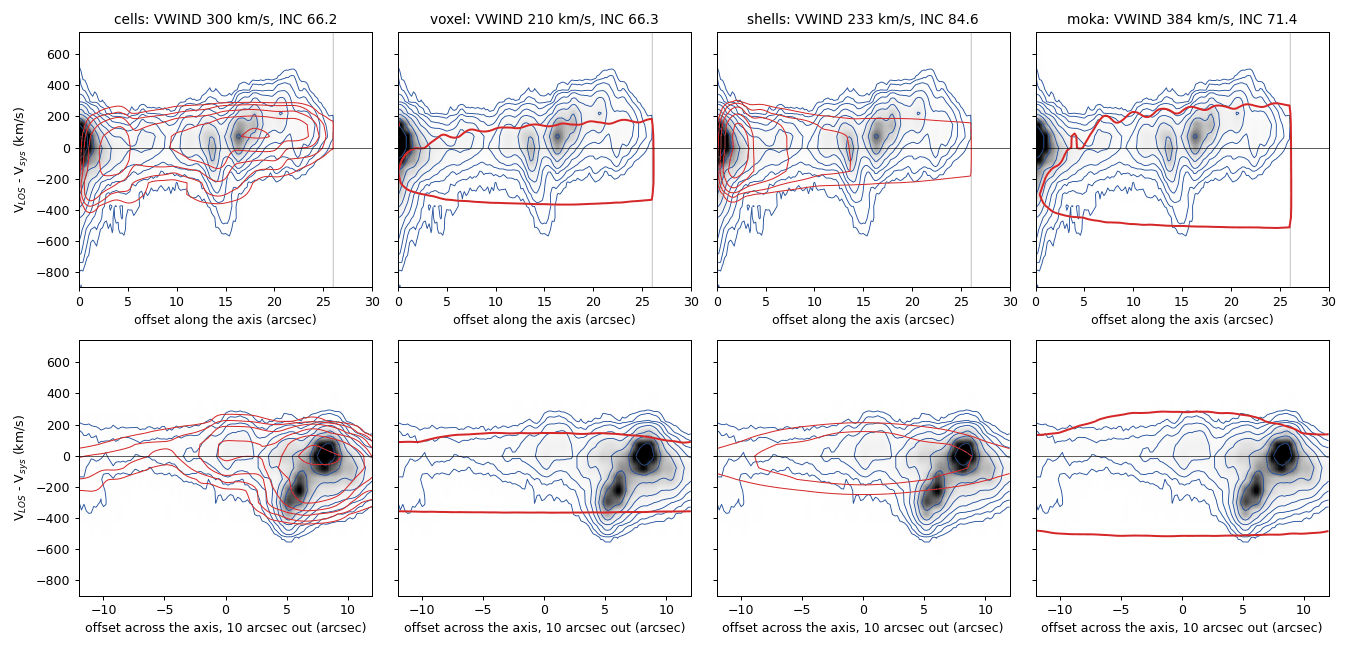
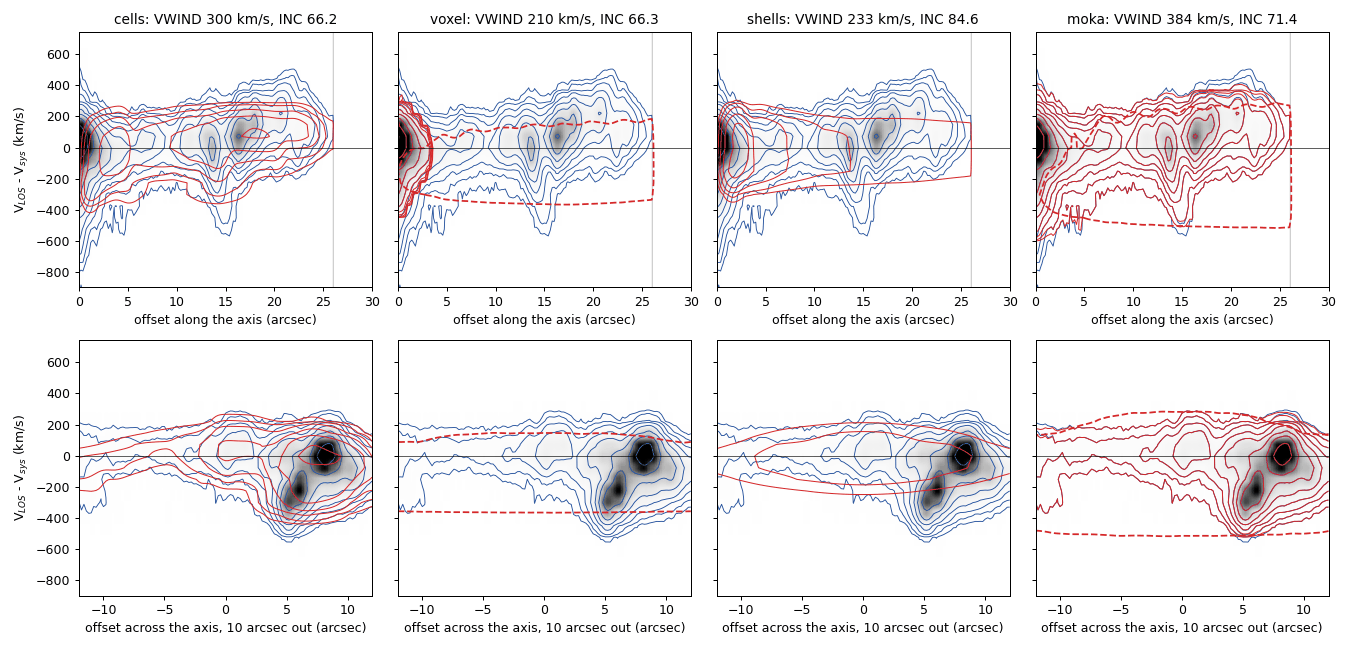
Circinus example: data from the ESO archive, model contours, the highest velocities
The data are a cube of the public ESO archive (Mingozzi et al. 2019 and Marconcini et al. 2023
cited, not as the source). The comparison figure draws the model cubes of voxel and moka too,
with the outline of their cone dashed. A section on the high-velocity wings that one cone misses,
with the spectra in rings and the fits with VWIND fixed at 550 km/s and with VDISP free. The
maps and PV diagrams of the fit with VWIND_FUNC, and the maps with the new velocity scale.

Changed region(s): [[0.7467, 0.1235, 0.9644, 0.3704], [0.7778, 0.6173, 0.9956, 0.8333], [0.28, 0.1543, 0.3422, 0.3395]]

diff --git a/docs/scripts/make_example_figures.py b/docs/scripts/make_example_figures.py
@@ -57,15 +57,23 @@ EX = {
     "circinus_vsys": ("circinus_WINDFIT_GLOBAL.par", "output/circinus_vsys", "circinus", [],
                       ["OUTFOLDER=output/circinus_vsys/", "FLAGERRORS=false", "FREE=VWIND_SINGLE INC VSYS",
                        "PRIORS=INC=(uniform,30,60) VWIND=(uniform,0,1600) VSYS=(uniform,-300,600)"]),
+    "circinus_v550": ("circinus_WINDFIT_GLOBAL.par", "output/circinus_v550", "circinus", [],
+                      ["OUTFOLDER=output/circinus_v550/", "FLAGERRORS=false", "VWIND=550", "FREE=INC",
+                       "PRIORS=INC=(uniform,30,60)"]),
+    "circinus_vdisp": ("circinus_WINDFIT_GLOBAL.par", "output/circinus_vdisp", "circinus", [],
+                       ["OUTFOLDER=output/circinus_vdisp/", "FLAGERRORS=false", "FREE=VWIND_SINGLE INC VDISP_SINGLE",
+                        "PRIORS=INC=(uniform,30,60) VWIND=(uniform,0,1600) VDISP=(uniform,0,300)"]),
     "circinus_func": ("circinus_WINDFIT_GLOBAL.par", "output/circinus_func", "circinus",
-                      [("_wind_shells.pdf", "shells", 1000)],
+                      [("_wind_shells.pdf", "shells", 1000), ("_maps_wind.pdf", "maps", 650),
+                       ("_pv_wind.pdf", "pv", 800)],
                       ["OUTFOLDER=output/circinus_func/", "FLAGERRORS=false", "FREE=VWIND_FUNC INC",
                        "PRIORS=INC=(uniform,30,60) VWIND_P1=(uniform,0,1600) VWIND_P2=(uniform,1,50)"]),
 }
 # figures made from the outputs of several examples: name -> (function, the examples it needs)
 COMPOSITE = {"circinus_compare": ("circinus_compare", ["circinus", "circinus_voxel", "circinus_shells",
                                                        "circinus_moka"]),
-             "circinus_mask": ("circinus_mask", [])}
+             "circinus_mask": ("circinus_mask", []),
+             "circinus_spectra": ("circinus_spectra", ["circinus", "circinus_v550", "circinus_vdisp"])}
 
 
 def run(name, work, threads):
@@ -158,13 +166,65 @@ def circinus_mask(work):
     print(f"    {os.path.relpath(dest, REPO)}")
 
 
+def circinus_spectra(work):
+    """The integrated spectra of Circinus in rings around the nucleus (in the mask, log scale): the data and the
+    models of the fit with one VWIND, with VWIND fixed at 550 km/s and with VDISP free."""
+    import numpy as np
+    import matplotlib
+    matplotlib.use("Agg")
+    import matplotlib.pyplot as plt
+    from astropy.io import fits
+    from astropy.wcs import WCS
+    hdu = fits.open(os.path.join(EXAMPLES, "circinus_OIII.fits"))[0]
+    h = hdu.header
+    mask = fits.getdata(os.path.join(EXAMPLES, "circinus_OIII_mask.fits")).astype(bool)
+    lam = h["CRVAL3"] + (np.arange(hdu.data.shape[0]) + 1 - h["CRPIX3"]) * h["CD3_3"]
+    vel = (lam / (5006.843 * 1.001448) - 1) * 299792.458
+    chan = mask.any(axis=(1, 2))
+    x0, y0 = WCS(h).celestial.world_to_pixel_values(213.291251, -65.338826)
+    ny, nx = hdu.data.shape[1:]
+    yy, xx = np.mgrid[0:ny, 0:nx]
+    rad = np.hypot(xx - x0, yy - y0) * abs(h["CD2_2"]) * 3600.
+    cubes = [(np.where(mask, np.nan_to_num(hdu.data.astype(np.float64)), 0.), "data", "k", 1.8)]
+    for name, col in (("circinus", "#d62728"), ("circinus_v550", "#2ca02c"), ("circinus_vdisp", "#9467bd")):
+        folder, prefix = EX[name][1], EX[name][2]
+        modf = os.path.join(work, folder, prefix + "_mod_wind.fits")
+        if not os.path.exists(modf):
+            print(f"  circinus_spectra: no {modf}")
+            return
+        par = _wind_params(os.path.join(work, folder, prefix + "_wind_params.txt"))
+        lab = (f"VWIND {par.get('vwind', 550.):.0f}" + (f", VDISP {par['vdisp']:.0f}" if "vdisp" in par else "")
+               + f", INC {par['inc']:.0f}")
+        cubes.append((np.where(mask, np.nan_to_num(fits.getdata(modf).astype(np.float64)), 0.), lab, col, 1.1))
+    fig, axs = plt.subplots(1, 4, figsize=(16, 4.2), sharex=True)
+    for ax, (r0, r1) in zip(axs, ((0, 3), (6, 10), (15, 20), (20, 26))):
+        sel = (rad >= r0) & (rad < r1)
+        for cube, lab, col, lw in cubes:
+            sp = cube[:, sel].sum(axis=1)
+            ax.step(vel[chan], np.clip(sp[chan], 1e-30, None), where="mid", color=col, lw=lw, label=lab)
+        peak = cubes[0][0][:, sel].sum(axis=1).max()
+        ax.set_yscale("log")
+        ax.set_ylim(3e-3 * peak, 2 * peak)
+        ax.axvline(0, color="0.6", lw=0.5)
+        ax.set_title(f"{r0}-{r1} arcsec from the nucleus", fontsize=11)
+        ax.set_xlabel("V$_{LOS}$ - V$_{sys}$ (km/s)")
+    axs[0].set_ylabel("flux in the mask")
+    axs[1].legend(fontsize=8, loc="upper left")
+    fig.tight_layout()
+    dest = os.path.join(OUT, "circinus_spectra.png")
+    fig.savefig(dest, dpi=80)
+    plt.close(fig)
+    _quantize(dest)
+    print(f"    {os.path.relpath(dest, REPO)}")
+
+
 def circinus_compare(work):
     """The fits of Circinus with the four descriptions of the emission (cells, voxel, shells, moka): position-velocity
     slices of the data in the mask (grey, blue contours) and of the models (red) along the axis of the cone and
-    across it at 10 arcsec from the nucleus, 1 beam wide. The models of cells and shells are fluxes (red contours at
-    the levels of the data); those of voxel and moka are not (a cone with the emission of the prior; the data where
-    the clouds are), and the cone is drawn instead: the outline of a uniform cone with the same geometry and wind
-    (GALWIND), at 5% of its peak in each slice."""
+    across it at 10 arcsec from the nucleus, 1 beam wide. The model cubes of the fits (_mod_wind.fits) in red
+    contours at the levels of the data; those of voxel and moka are the data where their cone reaches (as MoKA-3D),
+    so their cone is drawn too: the outline (dashed) of a uniform cone with the same geometry and wind (GALWIND), at
+    5% of its peak in each slice."""
     import numpy as np
     import matplotlib
     matplotlib.use("Agg")
@@ -216,25 +276,28 @@ def circinus_compare(work):
             return
         model = np.where(mask, fits.getdata(modf).astype(np.float64), np.nan)
         par = _wind_params(os.path.join(work, folder, prefix + "_wind_params.txt"))
+        cone = None
         if label in ("voxel", "moka"):                      # (the uniform cone of the fit)
             g = GalWind(os.path.join(EXAMPLES, "circinus_OIII.fits"), xpos="14:13:09.90", ypos="-65:20:19.77",
                         vsys=par.get("vsys", 0.), inc=par["inc"], pa=25, openang=110, conelen=52,
                         vwind=par["vwind"], vdisp=0, restwave=5006.843, redshift=0.001448, specres=0.85, dens=1,
                         verbose=False)
-            model = np.where(mask, np.asarray(g.run(threads=4).model.data, np.float64), np.nan)
-        for i, (d, m, offs, xl) in enumerate(((d_al, slice_(model, x0, y0, ux, uy, along), along,
-                                               "offset along the axis (arcsec)"),
-                                              (d_ac, slice_(model, cx10, cy10, wx, wy, across), across,
-                                               "offset across the axis, 10 arcsec out (arcsec)"))):
+            cone = np.where(mask, np.asarray(g.run(threads=4).model.data, np.float64), np.nan)
+        for i, (d, m, c, offs, xl) in enumerate(
+                ((d_al, slice_(model, x0, y0, ux, uy, along),
+                  None if cone is None else slice_(cone, x0, y0, ux, uy, along), along, "offset along the axis (arcsec)"),
+                 (d_ac, slice_(model, cx10, cy10, wx, wy, across),
+                  None if cone is None else slice_(cone, cx10, cy10, wx, wy, across), across,
+                  "offset across the axis, 10 arcsec out (arcsec)"))):
             ax = axs[i, j]
             ext = [offs[0], offs[-1], vel[chan][0], vel[chan][-1]]
             ax.imshow(d, origin="lower", aspect="auto", extent=ext, cmap="Greys", vmin=0, vmax=np.nanpercentile(d, 99.5))
             ax.contour(offs, vel[chan], np.nan_to_num(d), lev, colors="#1f4e9c", linewidths=0.7)
-            if label in ("voxel", "moka"):
-                mm = np.nan_to_num(m)
-                ax.contour(offs, vel[chan], mm, [0.05 * mm.max()], colors="#d62728", linewidths=1.6)
-            else:
-                ax.contour(offs, vel[chan], np.nan_to_num(m), lev, colors="#d62728", linewidths=0.8)
+            ax.contour(offs, vel[chan], np.nan_to_num(m), lev, colors="#d62728", linewidths=0.8)
+            if c is not None:
+                cc = np.nan_to_num(c)
+                ax.contour(offs, vel[chan], cc, [0.05 * cc.max()], colors="#d62728", linewidths=1.4,
+                           linestyles="--")
             ax.axhline(0, color="k", lw=0.5)
             ax.set_xlabel(xl)
             if j == 0:

diff --git a/docs/examples/circinus.md b/docs/examples/circinus.md
@@ -12,7 +12,7 @@ among them the statistic of MoKA-3D.
 | | |
 |---|---|
 | Object | Circinus galaxy, Seyfert 2, redshift 0.001448 (cz = 434 km/s), 4.2 Mpc (1 arcsec = 20.4 pc) |
-| Data | [OIII] 5007, MUSE at the VLT, MAGNUM survey (ESO programme 094.B-0321(A)), reduced with the MUSE pipeline v1.6 (Mingozzi et al. 2019); the data of Marconcini et al. (2023) |
+| Data | [OIII] 5007, MUSE at the VLT (ESO programme 094.B-0321(A)): a reduced cube from the public ESO Science Archive. These observations are studied by Mingozzi et al. (2019) and Marconcini et al. (2023) |
 | Cube | 173 × 238 pixels of 0.2 arcsec, 41 channels of 1.25 Å (75 km/s), from −1720 to +1270 km/s around [OIII] 5007: the part of the MUSE cube on the side of the cone |
 | Beam | 0.9 arcsec (the seeing), in the header |
 | Files | [circinus_OIII.fits](https://github.com/editeodoro/bbarolo2/raw/main/examples/circinus_OIII.fits) (6.8 MB), [circinus_OIII_mask.fits](https://github.com/editeodoro/bbarolo2/raw/main/examples/circinus_OIII_mask.fits) (1.7 MB), [circinus_WINDFIT_GLOBAL.par](https://github.com/editeodoro/bbarolo2/raw/main/examples/circinus_WINDFIT_GLOBAL.par), [circinus_mask.py](https://github.com/editeodoro/bbarolo2/raw/main/examples/circinus_mask.py) |
@@ -146,7 +146,8 @@ Marconcini et al. (2023) found a faster wind with an axis closer to the plane of
 β = 84° ± 2°. Their data were not this cube: they fitted the [OIII] of a Gaussian decomposition of the MUSE cube
 (the components of the outflow, with the line spread function removed). The integrated [OIII] of this cube, in the
 mask, has its 1st and 99th percentile velocities at −451 and +235 km/s; a cone with their parameters spreads from
-−556 to +407 km/s on this cube, 40% wider (and the statistic of MoKA-3D rejects it, see below).
+−556 to +407 km/s on this cube, 40% wider (and the statistic of MoKA-3D rejects it, see below). The highest
+velocities of the data are not in the model at any radius: see {ref}`circinus-high-velocities`.
 
 ```{figure} /figures/examples/circinus_maps.png
 :width: 70%
@@ -162,9 +163,9 @@ window, the empty ones too.
 :alt: Position-velocity diagrams of Circinus along and across the cone, data and model
 
 Position–velocity diagrams along the axis of the cone and across it, half way along (`_pv_wind.pdf`): data in grey
-with blue contours, model in red. Two parts of the data are not in the model: the fast gas near the nucleus (from
-−600 to +400 km/s within 3 arcsec), beyond what a cone at 300 km/s gives, and the narrow line at 0 to +200 km/s
-along the axis between 10 and 25 arcsec.
+with blue contours, model in red. The model has the bright part of the lines but not their faint wings, from
+−850 to +500 km/s, at any radius, and it is fainter than the bright line at 0 to +200 km/s along the axis between
+10 and 25 arcsec.
 ```
 
 ```{figure} /figures/examples/circinus_chanmaps.png
@@ -172,7 +173,8 @@ along the axis between 10 and 25 arcsec.
 :alt: Channel maps of Circinus, data and model
 
 Channel maps of the data (blue, the whole field: outside the mask, the [OIII] of the disk) and of the model (red,
-the cone only).
+the cone only). The channels beyond −450 and +300 km/s are empty in the model: a cone at 300 km/s, inclined by 66°,
+has line-of-sight velocities from −294 to +155 km/s, broadened by SPECRES.
 ```
 
 ```{figure} /figures/examples/circinus_corner.png
@@ -182,6 +184,36 @@ the cone only).
 The corner plot (`_wind_corner.pdf`): the draws of the Laplace approximation around the best fit.
 ```
 
+(circinus-high-velocities)=
+## The highest velocities
+
+The lines of the cone have a bright core and faint wings, a few per cent of the flux, out to −850 and +500 km/s, at
+every radius. A cone of one radial velocity V and half opening angle 55°, inclined by INC, has line-of-sight
+velocities between −V cos(INC − 55°) and −V cos(INC + 55°): to reach the wings it needs V of about 550 km/s and an
+axis close to the plane of the sky, which spreads the cores too. Two more fits (with the same file, as in
+{ref}`circinus-other-emission`) show the trade-off:
+
+| Fit | VWIND (km/s) | VDISP (km/s) | INC | log-likelihood |
+|---|---|---|---|---|
+| one VWIND (above) | 300 | 0 | 66.2° | |
+| VWIND fixed at 550 (`VWIND=550 FREE=INC`) | 550 | 0 | 82.4° | −648 |
+| VDISP free (`FREE=VWIND_SINGLE INC VDISP_SINGLE`) | 112 | 98 | 64.1° | +1453 |
+
+With VWIND fixed at 550 km/s the inclination goes to 82°, close to the 84° of Marconcini et al. (2023), and the
+wings beyond 10 arcsec are reproduced, but the cores are not, and the likelihood is much lower. With VDISP free the
+cone becomes slow and turbulent: the cores are better, the wings still missing. The lines are made of (at least) two
+components, a bright one at lower velocity and a faint fast one, and one cone fits the bright one: Marconcini et al.
+(2023) fitted the outflow components of a Gaussian decomposition of the lines, the fast ones.
+
+```{figure} /figures/examples/circinus_spectra.png
+:alt: Spectra of Circinus in rings around the nucleus, data and three models
+
+The integrated spectra in the mask, in rings around the nucleus (logarithmic scale): the data (black), the fit with
+one VWIND (red), with VWIND fixed at 550 km/s (green) and with VDISP free (purple). Within 3 arcsec, the bright
+nucleus is not in any model.
+```
+
+(circinus-other-emission)=
 ## Other descriptions of the emission
 
 WINDFIT has other descriptions of the emission ({ref}`LIKEOPTS <par-windfit-likeopts>` `emission`, see
@@ -222,9 +254,11 @@ They took 4 to 8.5 minutes each. The four agree on a cone inclined by 66° to 85
 :alt: Position-velocity slices of Circinus with the cones of the four descriptions of the emission
 
 Position–velocity slices of the data in the mask (grey, blue contours) along the axis of the cone and across it 10
-arcsec from the nucleus, one beam wide, with the four fits (red). For `cells` and `shells` the contours of the
-model, at the levels of the data; the models of `voxel` and `moka` are not fluxes, and the red line is the outline
-of their cone (a uniform cone with the same geometry and wind, made with GALWIND).
+arcsec from the nucleus, one beam wide, with the model cubes of the four fits (red contours, at the levels of the
+data). The models of `voxel` and `moka` are the data where their cone reaches, as in MoKA-3D, so the dashed line
+shows the cone itself: a uniform cone with the same geometry and wind (made with GALWIND). The model of `voxel`
+keeps the data where the expected emission of its cone is above 1/1000 of its peak: with the emission falling as
+r^−4.35 (EMSLOPE), only within 3 arcsec of the nucleus.
 ```
 
 **VSYS free.** With VSYS free as well (`FREE=VWIND_SINGLE INC VSYS`, PRIORS VSYS between −300 and +300 km/s), the
@@ -255,6 +289,22 @@ The shells of the fit with `VWIND_FUNC` (`_wind_shells.pdf`): the velocity of th
 rotation (fixed at 0) against radius, and the flux of the model in radial bins.
 ```
 
+```{figure} /figures/examples/circinus_func_pv.png
+:width: 70%
+:alt: Position-velocity diagrams of Circinus with the model of a wind accelerating with radius
+
+The position–velocity diagrams of the fit with `VWIND_FUNC`, as for the fit with one velocity above: the wind is
+slow near the nucleus, where the lines of the data are the widest, and faster outwards; the faint wings of the lines
+are missing at every radius, as with one velocity.
+```
+
+```{figure} /figures/examples/circinus_func_maps.png
+:width: 70%
+:alt: Moment maps of Circinus with the model of a wind accelerating with radius
+
+The moment maps of the fit with `VWIND_FUNC`.
+```
+
 ## References
 
 - Marconcini, C., et al. 2023, A&A, 677, A58:
@@ -262,5 +312,5 @@ rotation (fixed at 0) against radius, and the flux of the model in radial bins.
   (the model of the cone of Circinus with MoKA-3D, and its statistic).
 - Mingozzi, M., et al. 2019, A&A, 622, A146:
   [The MAGNUM survey: different gas properties in the outflowing and disk components in nearby active galaxies with MUSE](https://ui.adsabs.harvard.edu/abs/2019A%26A...622A.146M)
-  (the MUSE data of the MAGNUM survey and their reduction; the distance of Circinus).
+  (the MUSE observations of Circinus in the MAGNUM survey; the distance).
 - {doc}`../tasks/windfit/index` and {doc}`../tasks/windfit/algorithm`: the model, the likelihoods and the options.

diff --git a/docs/getting-started/example-data.md b/docs/getting-started/example-data.md
@@ -22,7 +22,7 @@ this cube and other datasets, each with a parameter file, described in {doc}`../
 | [ALESS73_CII.fits](https://github.com/editeodoro/bbarolo2/raw/main/examples/ALESS73_CII.fits) | [CII] cube of ALESS 073.1, a galaxy at z = 4.8, ALMA | 1.7 MB | {doc}`../examples/aless73` |
 | [HD142527_13CO.fits](https://github.com/editeodoro/bbarolo2/raw/main/examples/HD142527_13CO.fits) | ¹³CO cube of the disk of HD 142527, ALMA | 5.6 MB | {doc}`../examples/hd142527` |
 | [2masxj1022_SALT.fits](https://github.com/editeodoro/bbarolo2/raw/main/examples/2masxj1022_SALT.fits) | long-slit spectrum of 2MASX J1022 (Hα + [NII]), SALT | 5.8 MB | {doc}`../examples/2masxj1022` |
-| [circinus_OIII.fits](https://github.com/editeodoro/bbarolo2/raw/main/examples/circinus_OIII.fits) | [OIII] cube of the Circinus galaxy, MUSE (MAGNUM), with the mask of its ionised cone ([circinus_OIII_mask.fits](https://github.com/editeodoro/bbarolo2/raw/main/examples/circinus_OIII_mask.fits)) | 6.8 MB | {doc}`../examples/circinus` |
+| [circinus_OIII.fits](https://github.com/editeodoro/bbarolo2/raw/main/examples/circinus_OIII.fits) | [OIII] cube of the Circinus galaxy, MUSE (ESO archive), with the mask of its ionised cone ([circinus_OIII_mask.fits](https://github.com/editeodoro/bbarolo2/raw/main/examples/circinus_OIII_mask.fits)) | 6.8 MB | {doc}`../examples/circinus` |
 
 The parameter files are next to the data, with the names of the examples (e.g. `ngc2403_3DFIT.par`); run them from
 the folder that contains the FITS file, e.g. `BBarolo -p ngc2403_3DFIT.par`. With a copy of the repository
